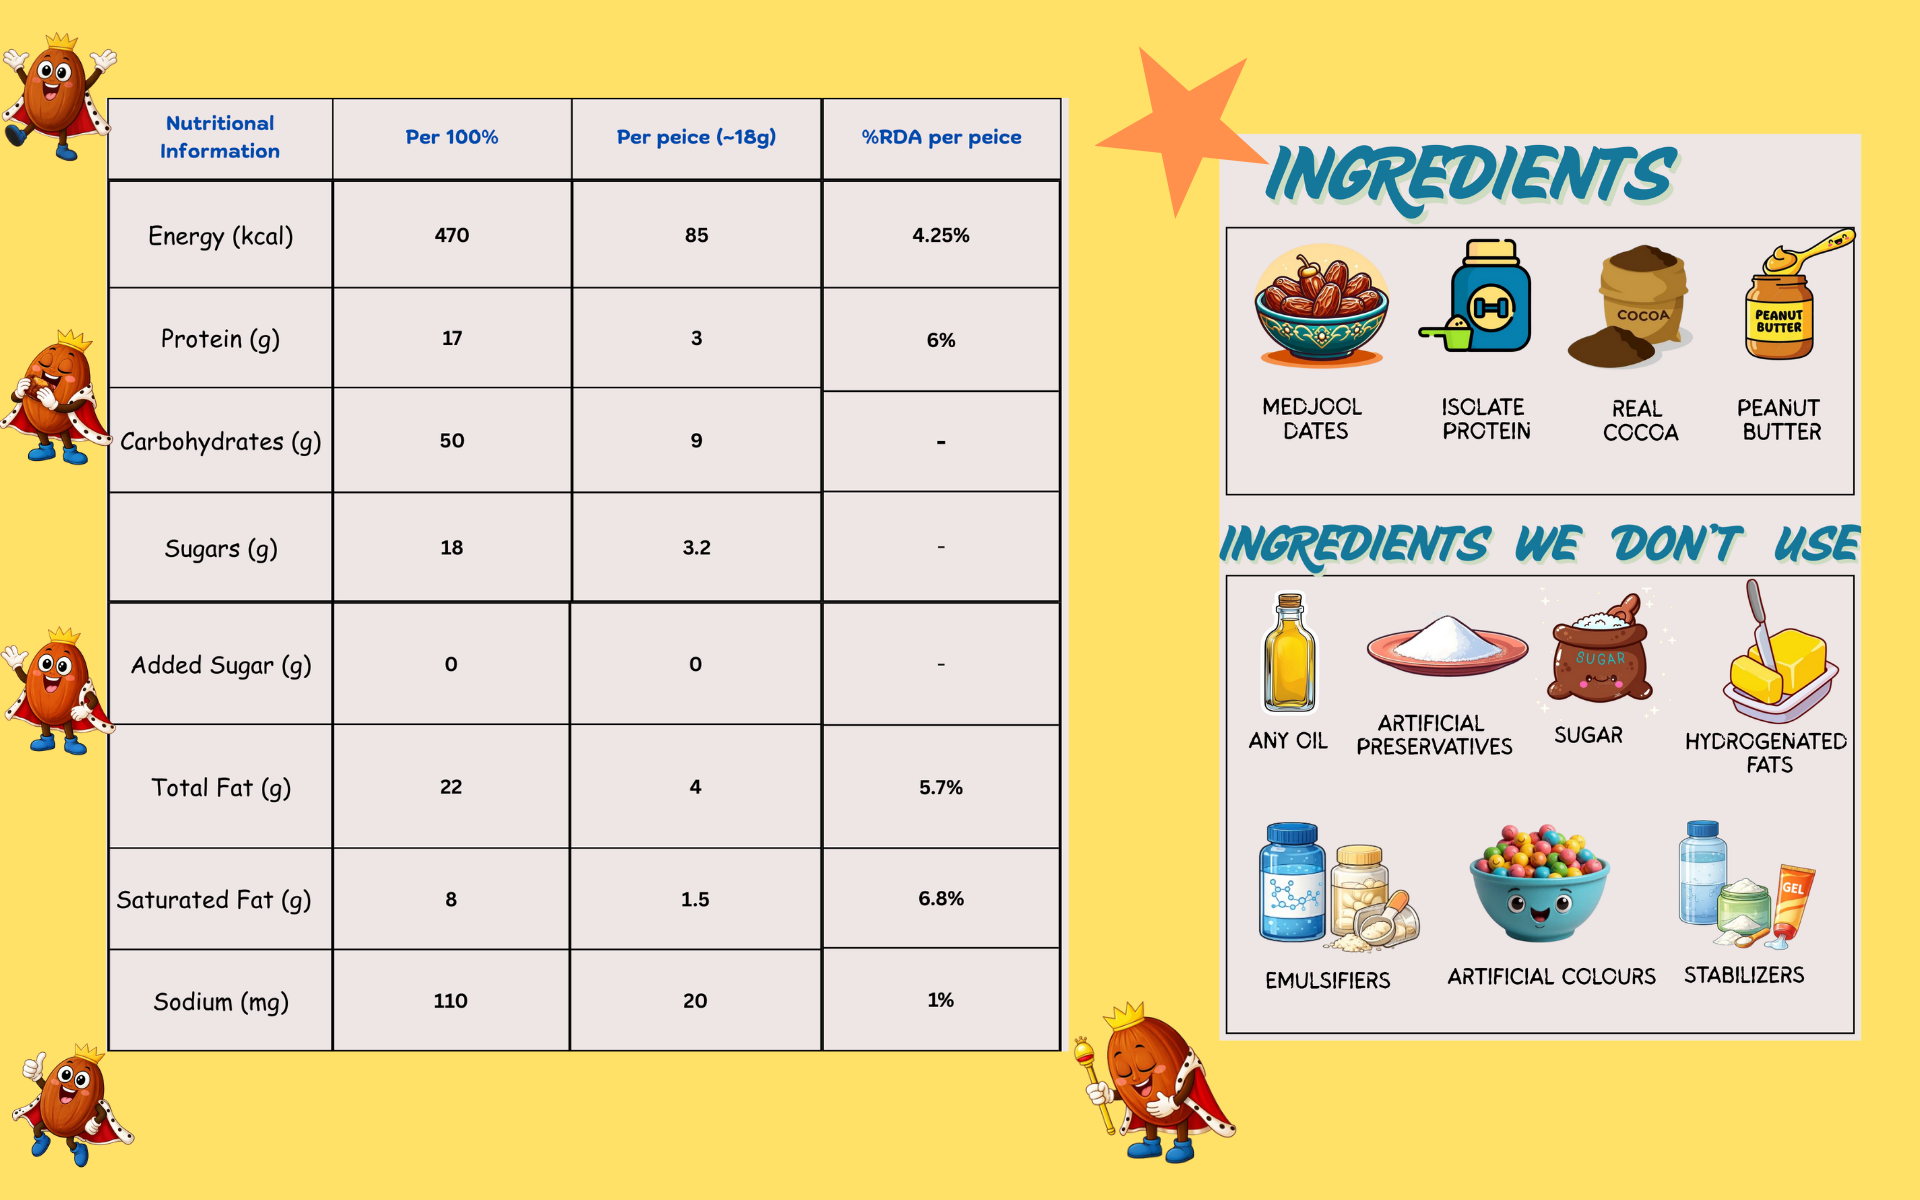
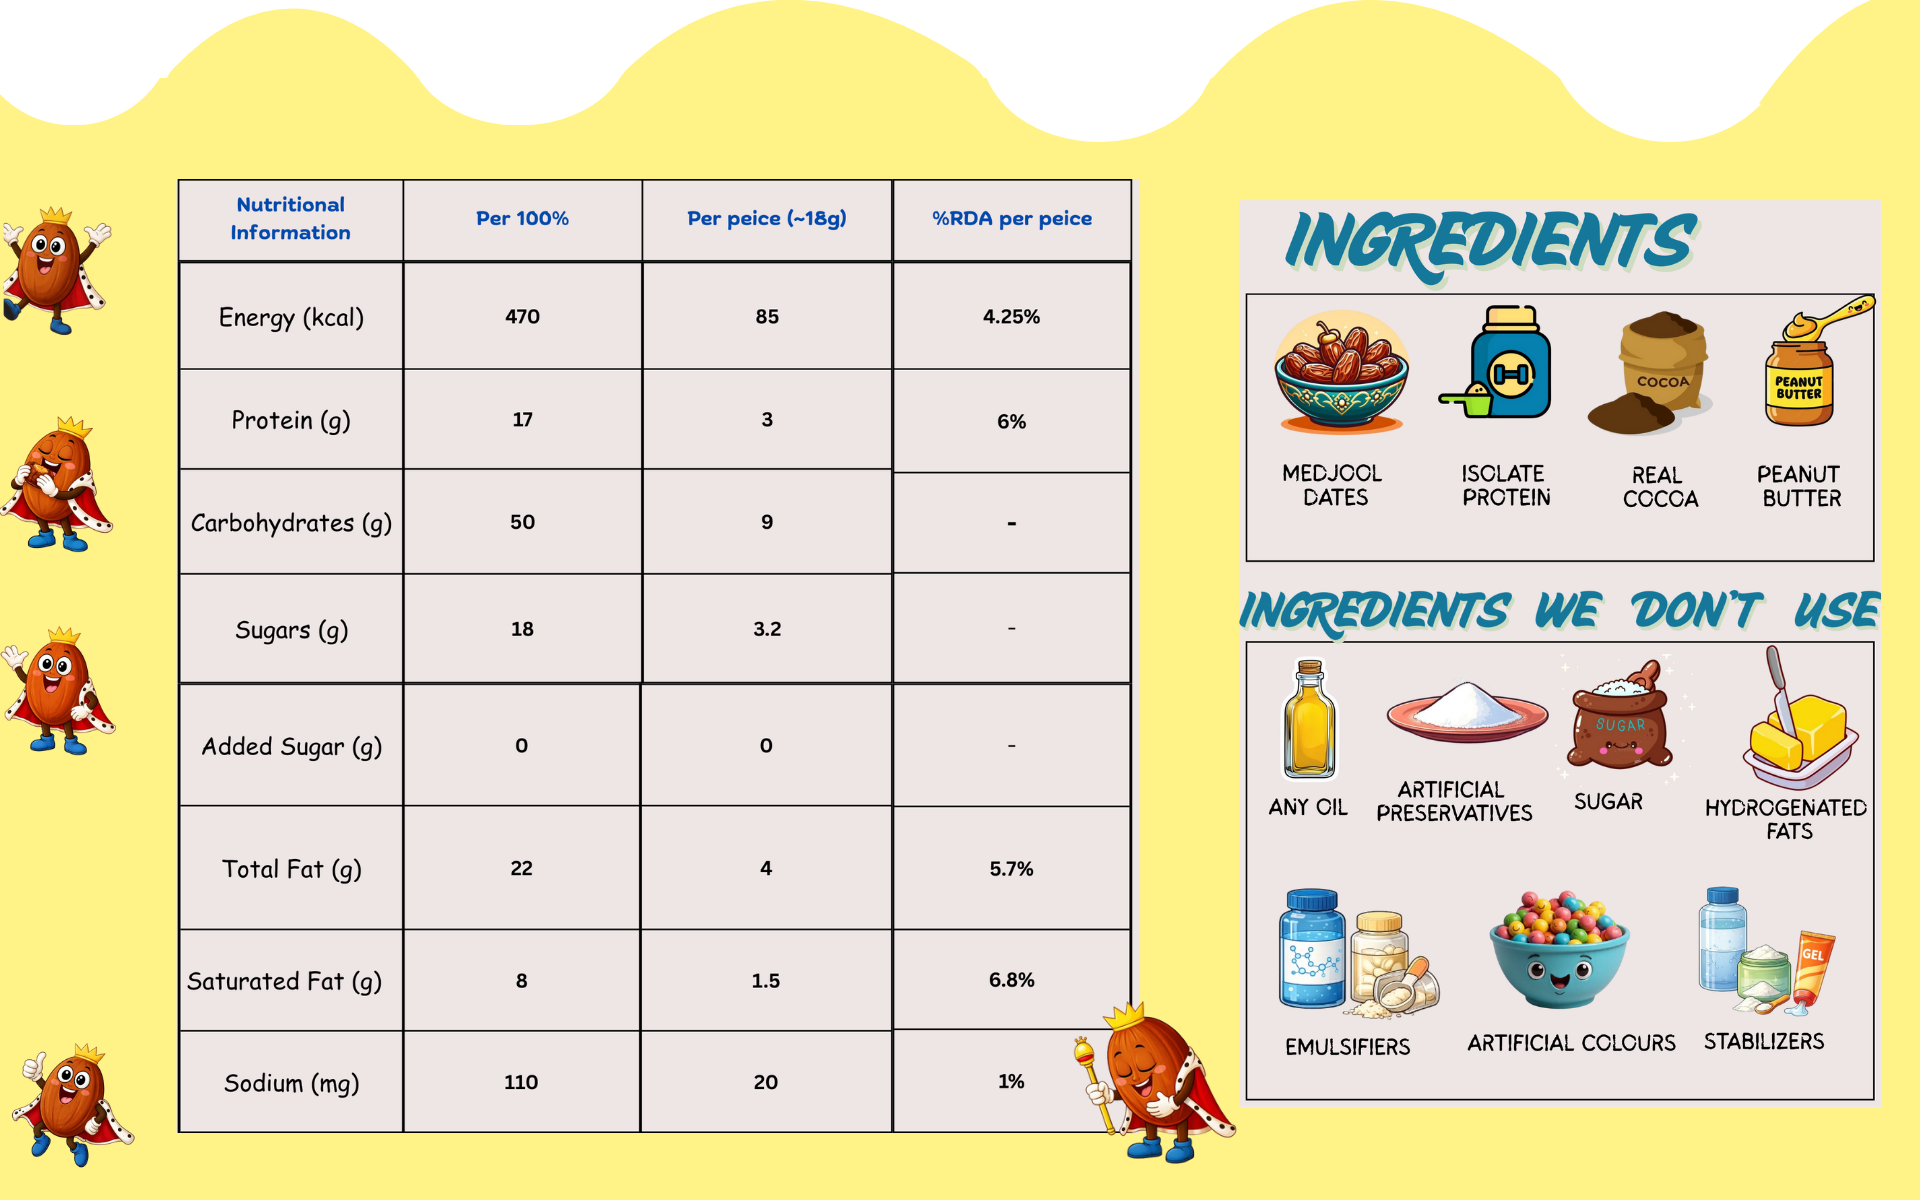
Feat: product page hero image & removed unsubscribe newsletter button

diff --git a/client/src/pages/Product.tsx b/client/src/pages/Product.tsx
@@ -7,6 +7,8 @@ import { FrequentlyBoughtTogether } from "@/components/FrequentlyBoughtTogether"
 import { useProductStore } from "@/store/useProductStore";
 import { useCartStore } from "@/store/useCartStore";
 import { useUIStore } from "@/store/useUIStore";
+import { useCommonStore } from "@/store/useCommonStore";
+import HeroImage from "@/components/HeroImage";
 
 export const Product = () => {
   const { id } = useParams();
@@ -23,6 +25,10 @@ export const Product = () => {
   const setOpenCart = useUIStore((s) => s.setOpenCart);
   const setOpenSearch = useUIStore((s) => s.setOpenSearch);
   const [selectedImage, setSelectedImage] = useState("");
+
+  const { assets } = useCommonStore();
+
+  const hero3 = assets?.hero?.find(h => h.position === 3);
 
   useEffect(() => {
     if (!id) return;
@@ -281,6 +287,16 @@ export const Product = () => {
         products={frequentlyBought}
         loading={loadingFrequentlyBought}
       />
+
+      {/* ✅ Hero 3 (Product Page Banner) */}
+      {hero3?.image && (
+        <div >
+          <HeroImage
+            src={hero3.image}
+            alt="Product Page Hero Image"
+          />
+        </div>
+      )}
     </section>
   );
 };

diff --git a/client/src/components/Footer.tsx b/client/src/components/Footer.tsx
@@ -154,14 +154,14 @@ export const Footer = () => {
               {loadingNewsletter ? "Joining..." : "Join"}
             </button>
 
-            <button
+            {/* <button
               type="button"
               onClick={handleUnsubscribe}
               disabled={loadingNewsletter}
               className="border border-zinc-600 text-gray-200 px-4 py-2 rounded-lg font-semibold hover:bg-zinc-800 transition-colors disabled:opacity-60"
             >
               {loadingNewsletter ? "Please wait..." : "Unsubscribe"}
-            </button>
+            </button> */}
           </form>
         </div>
       </div>

diff --git a/client/src/store/UsePaymentStore.ts b/client/src/store/UsePaymentStore.ts
@@ -1,7 +1,20 @@
 import { create } from "zustand";
 import api from "@/lib/api";
 
-export const usePaymentStore = create((set, get) => ({
+interface PaymentState {
+  loading: boolean;
+  error: any;
+
+  razorpayOrderId: string | null;
+  appOrderId: number | null;
+  amount: number;
+
+  createOrder: () => Promise<any>;
+  verifyPayment: (paymentData: any) => Promise<any>;
+  reset: () => void;
+}
+
+export const usePaymentStore = create<PaymentState>((set, get) => ({
   loading: false,
   error: null,
 

diff --git a/client/src/pages/AdminAssets.tsx b/client/src/pages/AdminAssets.tsx
@@ -127,6 +127,7 @@ export default function AdminAssets() {
                   {/* Position badge */}
                   <span className="absolute top-3 left-3 bg-black/70 text-white text-xs px-2 py-1 rounded">
                     Position {hero.position}
+                    {hero.position === 3 && " (Product Page Hero Image)"}
                   </span>
 
                   {/* Always-visible edit */}

diff --git a/client/src/components/FrequentlyBoughtTogether.tsx b/client/src/components/FrequentlyBoughtTogether.tsx
@@ -30,7 +30,7 @@ export const FrequentlyBoughtTogether = ({
 
   if (loading) {
     return (
-      <section className="bg-zinc-50 py-12">
+      <section className="py-12">
         <div className="container mx-auto px-4 text-center text-muted-foreground">
           Loading frequently bought products...
         </div>

diff --git a/server/src/seed/seedDefaultAssets.js b/server/src/seed/seedDefaultAssets.js
@@ -29,6 +29,11 @@ export const seedDefaultAssets = async () => {
         position: 2,
         image: "default-hero-2.png",
       },
+      {
+        type: "hero",
+        position: 3,
+        image: "default-hero-3.png",
+      },
     ];
 
     for (const asset of defaults) {

diff --git a/client/src/types/razorpay.d.ts b/client/src/types/razorpay.d.ts
@@ -1,0 +1,7 @@
+declare global {
+  interface Window {
+    Razorpay: any;
+  }
+}
+
+export {};
